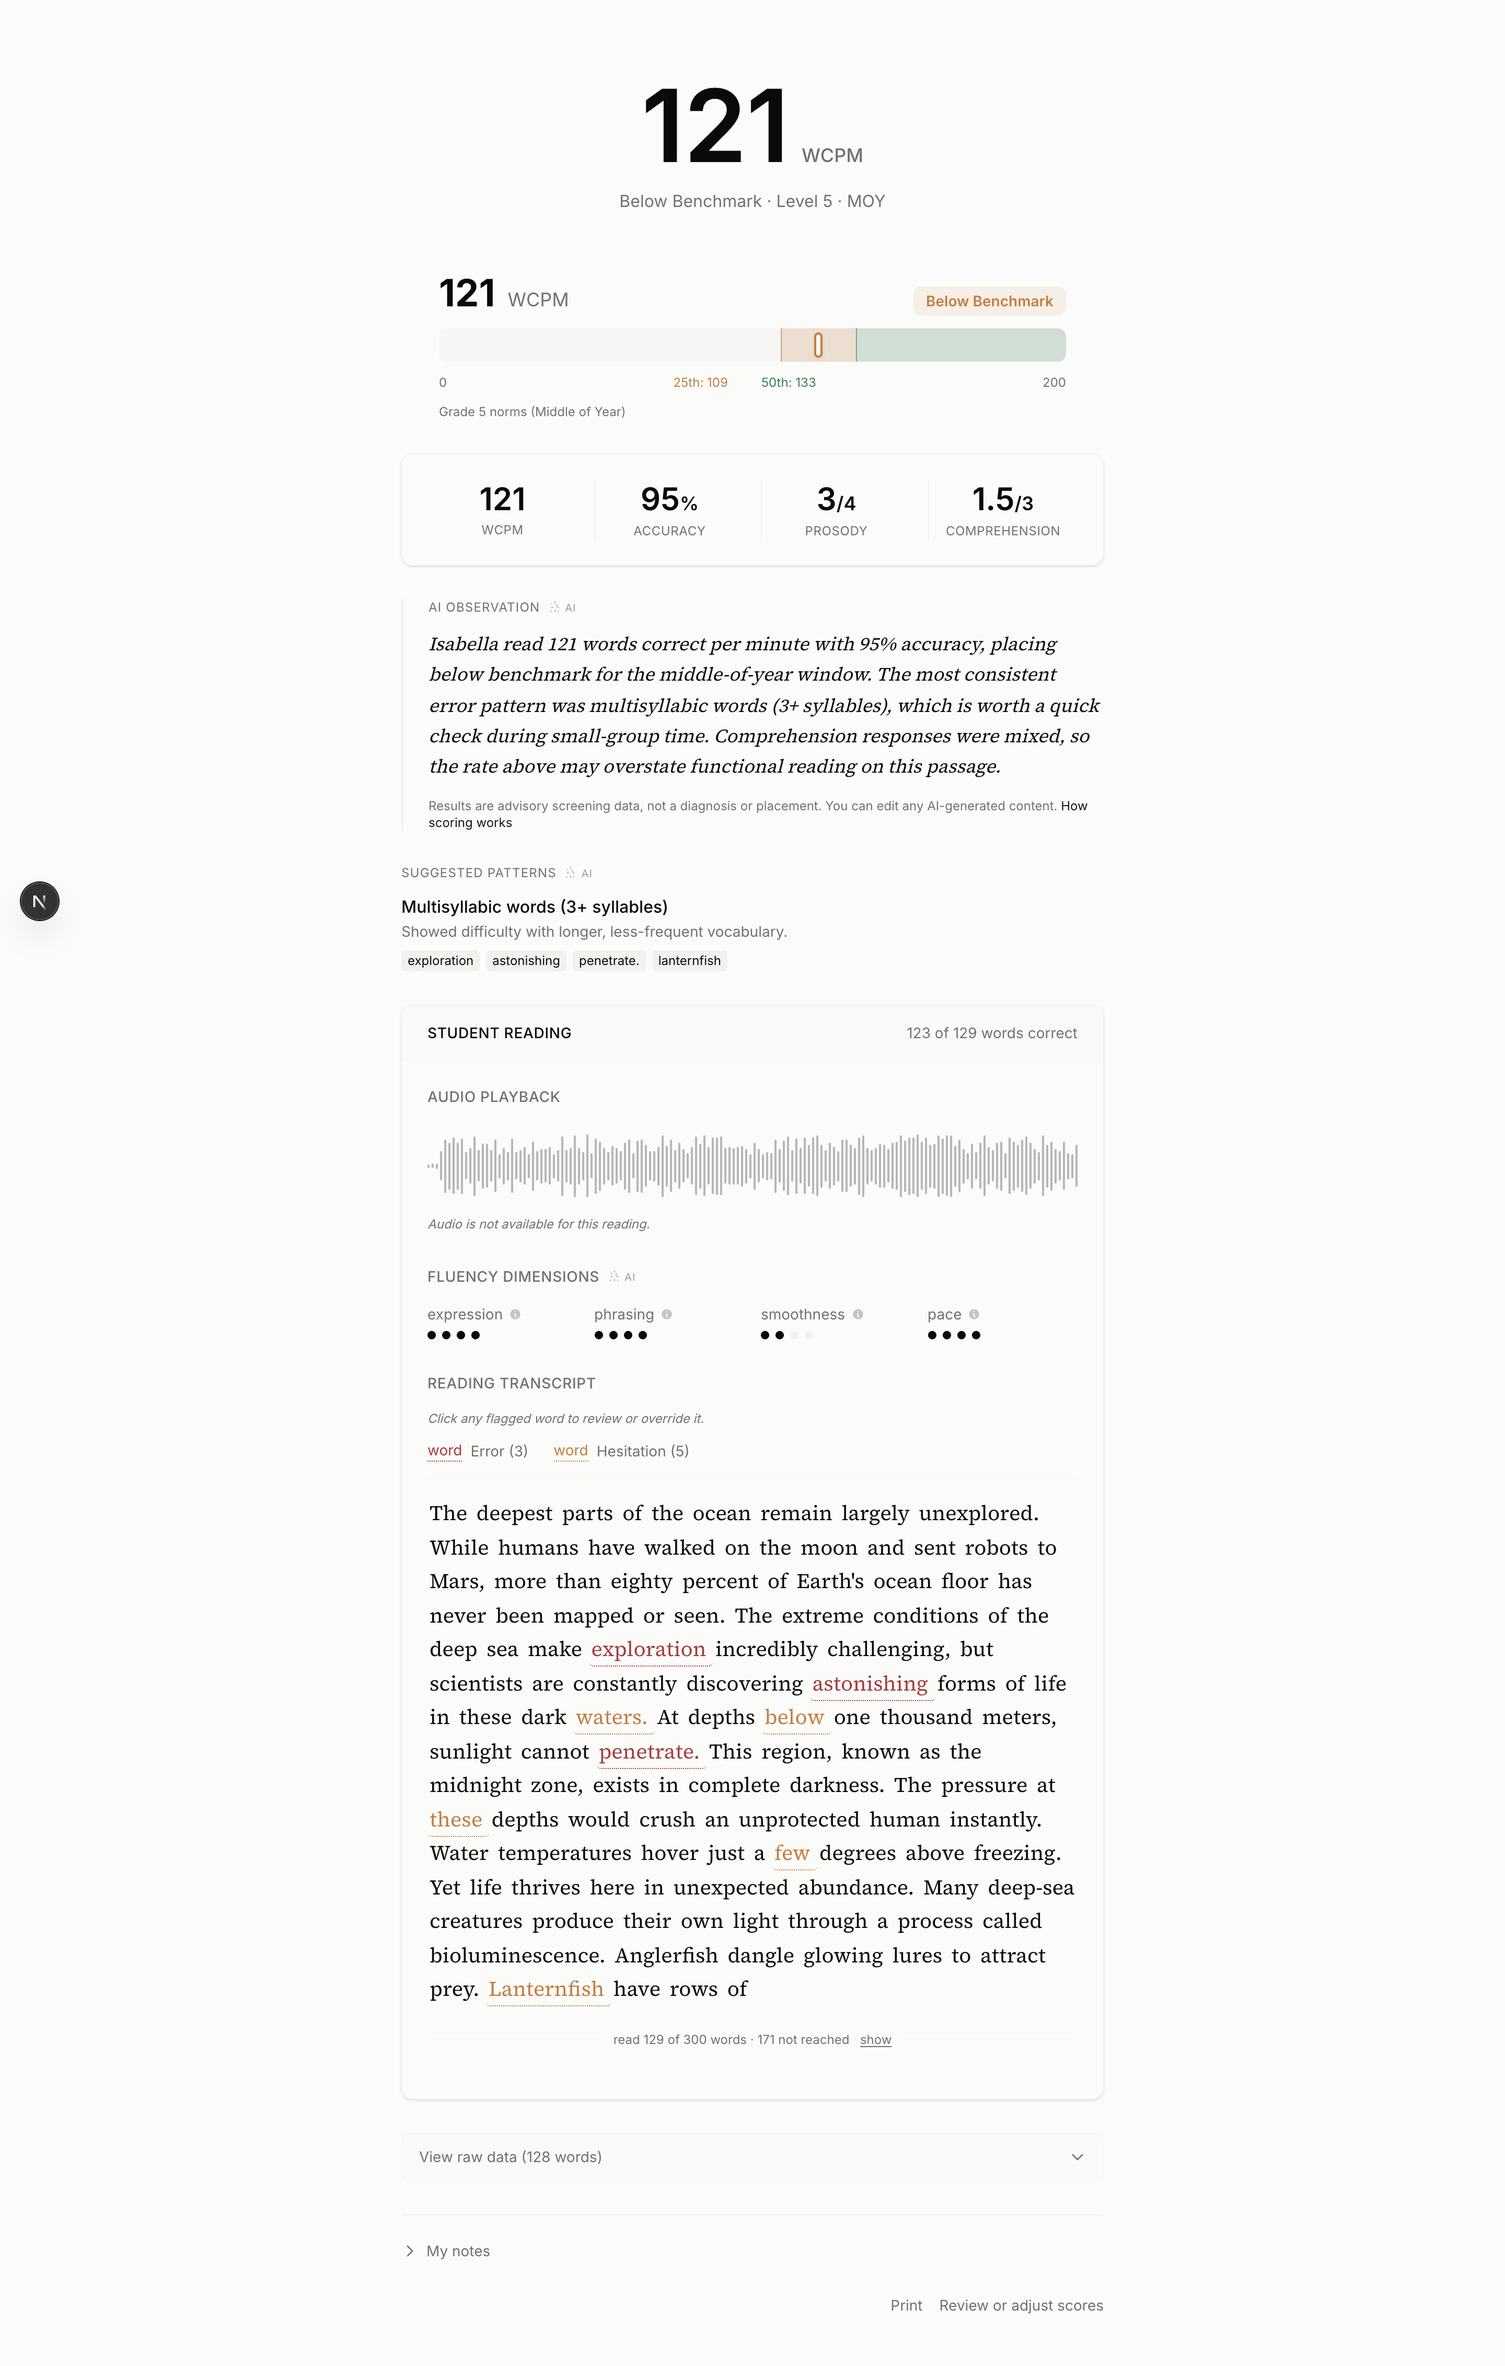
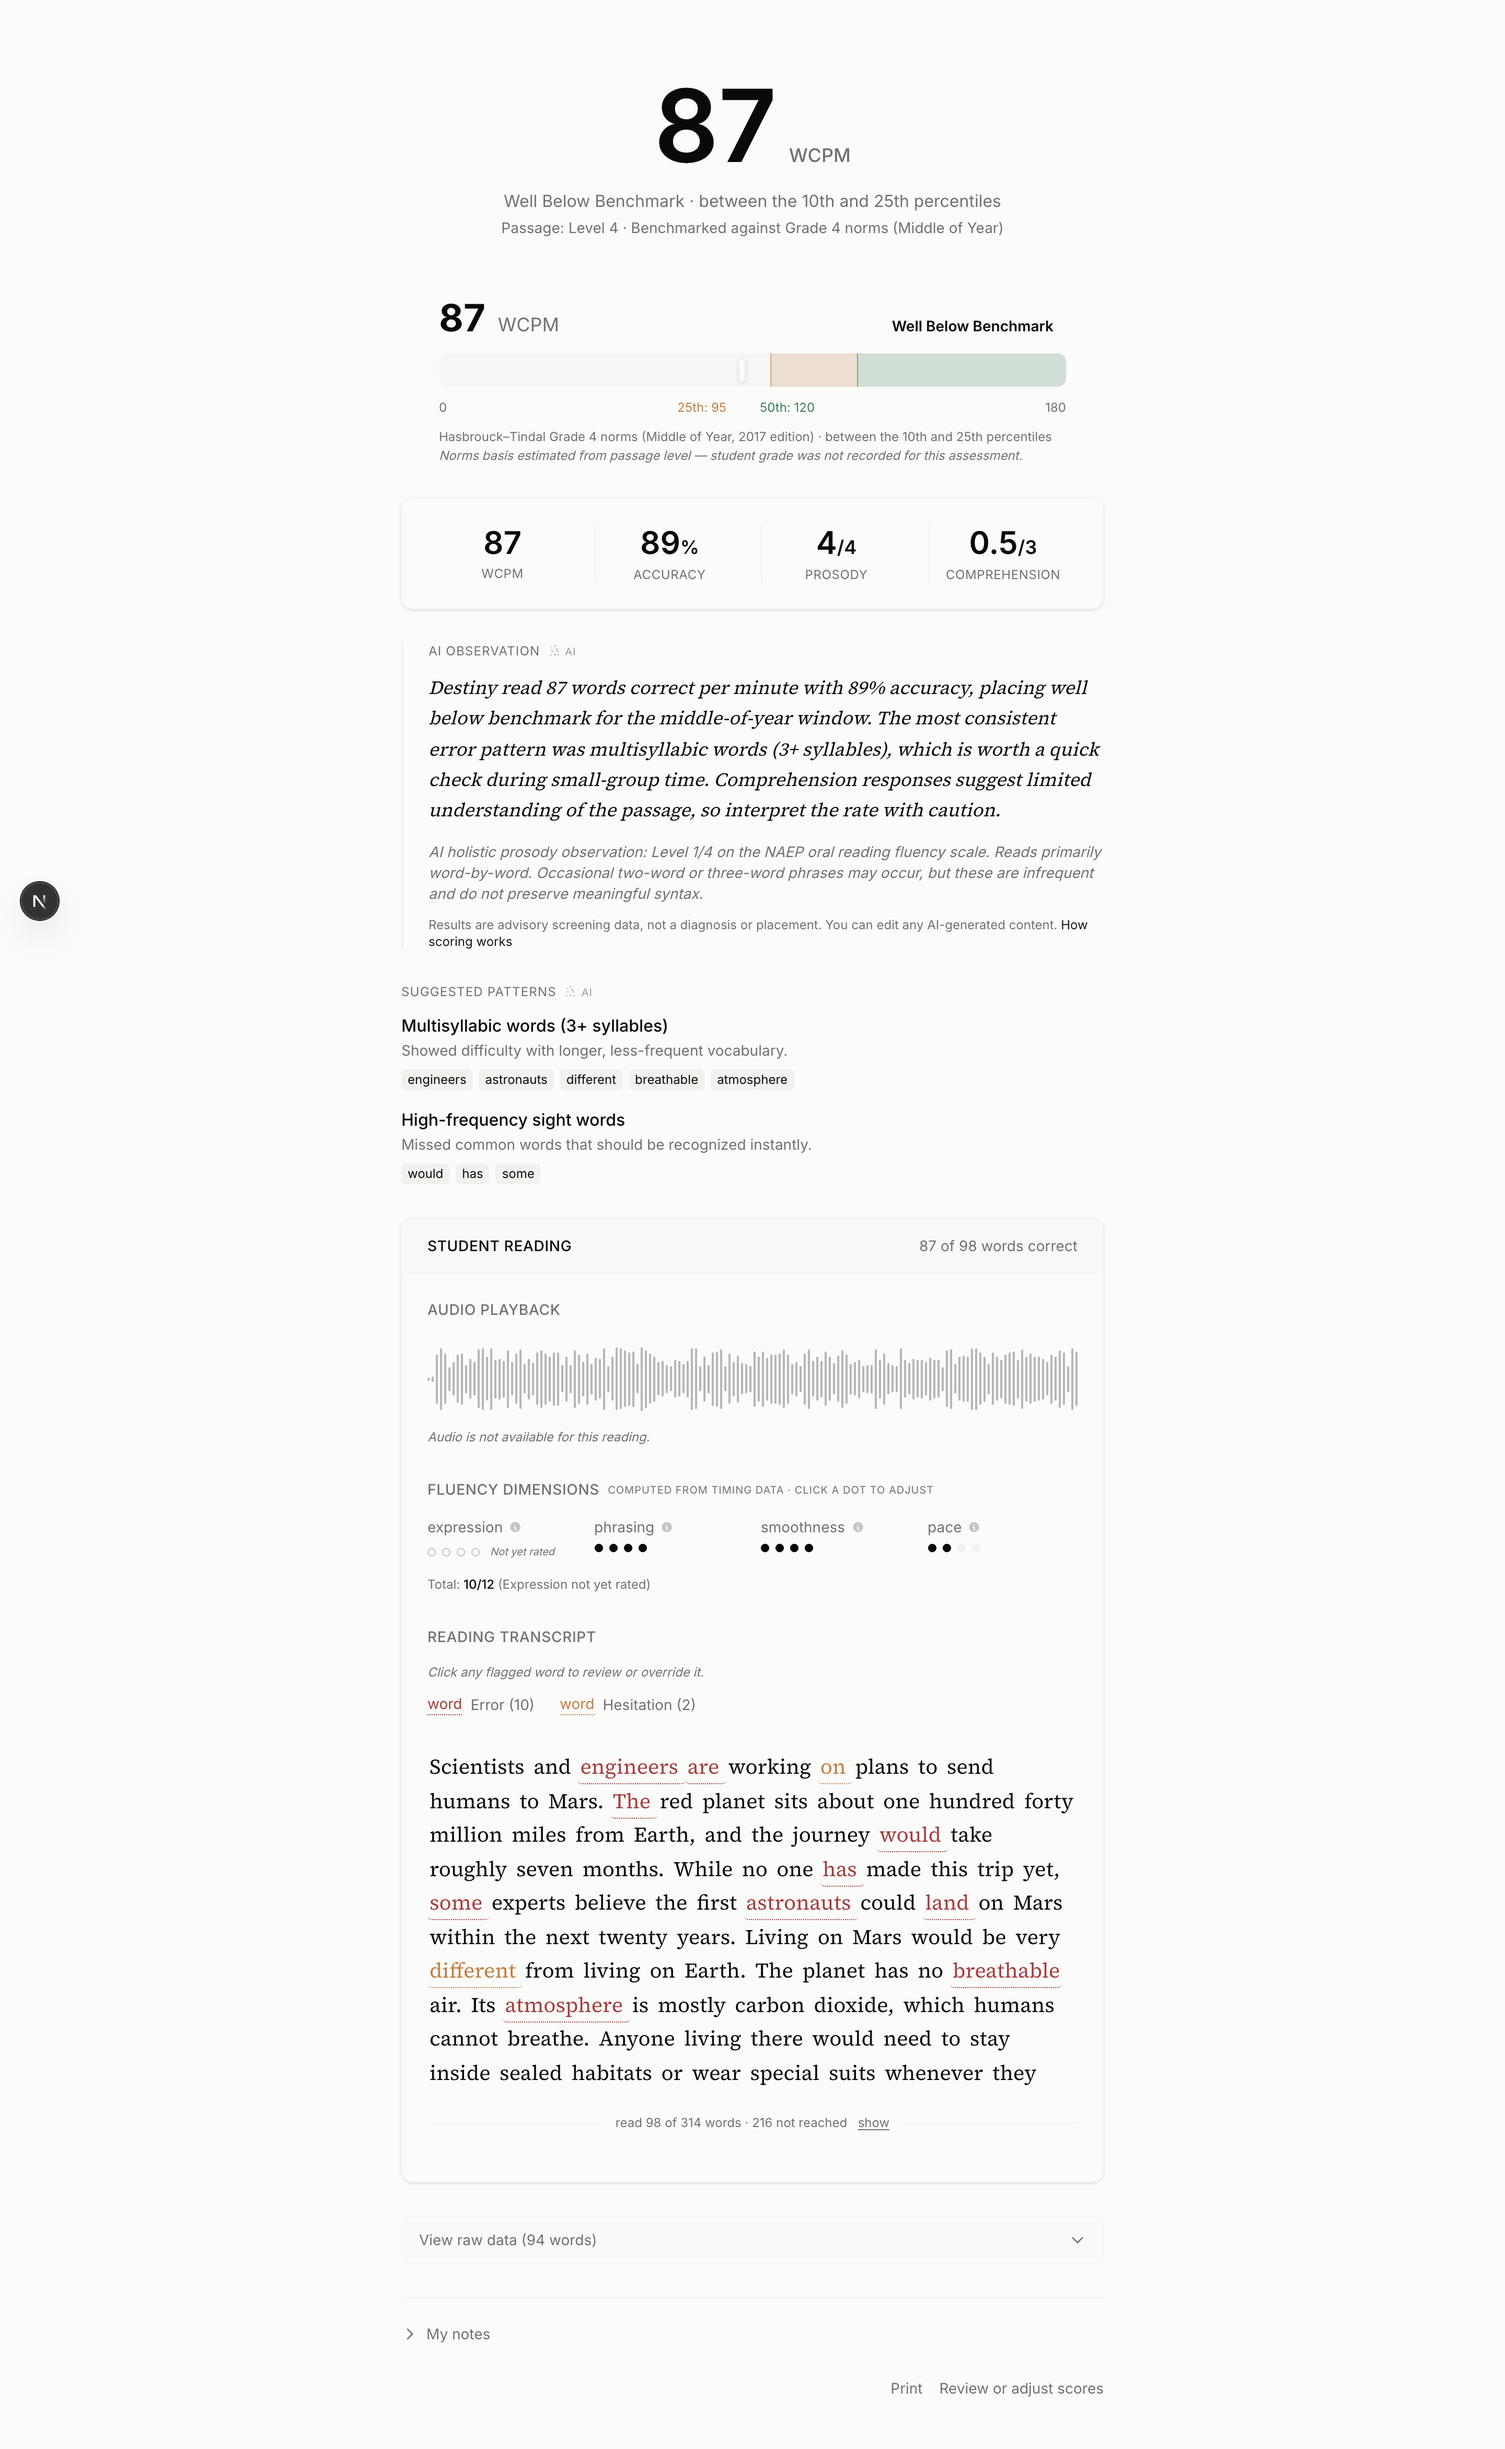
Refresh demo screenshots; fix seed week anchor and capture-script report discovery
- seed-demo.ts: anchor session dates to the dashboard's week convention
  (starts Sunday) instead of ISO Monday — run on a Sunday, every seeded
  session fell into the dashboard's previous week and the default view was
  empty; future slots now compress into earlier today.
- capture-demo-screens.ts: reports open inline on the dashboard now, so the
  report capture derives /report/<id> from the expanded row's Print link
  instead of expecting a direct link.
- public/marketing/*: recaptured after the D1-D3 report changes (stored-norms
  captions with edition + basis note, percentile range language,
  passage-vs-grade line, dimensions prosody, NAEP demoted to AI Observation).
- STATUS.md: D1-D3 rollout recorded as fully deployed (migrations + code +
  89-session backfill verified); noted the client-import hotfix lesson and
  the synthetic-timing demo prosody artifact.

diff --git a/scripts/capture-demo-screens.ts b/scripts/capture-demo-screens.ts
@@ -45,17 +45,37 @@ async function main() {
     console.log("captured median-report.png");
   }
 
-  // 3. Open a per-passage report (expand a sub-row) and capture the full report
-  //    Navigate directly to a report page for a clean capture.
+  // 3. Capture the full report. Reports render inline on the dashboard (no
+  //    direct /report/ links in the collapsed list), but every expanded
+  //    session row carries a Print link (/report/<id>/print) — expand rows
+  //    until one appears, then strip "/print" for the standalone report page.
   await page.goto(`${BASE}/dashboard`);
   await page.waitForLoadState("networkidle");
   await page.waitForTimeout(1000);
 
-  const reportLink = await page.evaluate(() => {
-    // find any element that navigates to /report/<uuid>
-    const a = document.querySelector('a[href^="/report/"]');
-    return a?.getAttribute("href") ?? null;
-  });
+  let reportLink: string | null = null;
+  const findPrintLink = () =>
+    page.evaluate(() => {
+      const a = document.querySelector('a[href^="/report/"]');
+      return a?.getAttribute("href") ?? null;
+    });
+
+  reportLink = await findPrintLink();
+  if (!reportLink) {
+    // Expand a group, then its first per-passage sub-row, to mount the inline report.
+    const group = page.locator("text=/median/i").first();
+    if (await group.count()) {
+      await group.click();
+      await page.waitForTimeout(1000);
+      const subRow = page.locator("text=/Passage 1/i").first();
+      if (await subRow.count()) {
+        await subRow.click();
+        await page.waitForTimeout(2500);
+      }
+      reportLink = await findPrintLink();
+    }
+  }
+  if (reportLink) reportLink = reportLink.replace(/\/print$/, "");
   if (reportLink) {
     await page.goto(`${BASE}${reportLink}`);
     await page.waitForLoadState("networkidle");

diff --git a/scripts/seed-demo.ts b/scripts/seed-demo.ts
@@ -546,14 +546,31 @@ async function insertChunked(table: string, rows: Record<string, unknown>[], chu
   }
 }
 
-/** Monday of the current week at the given hour (local time). */
+/**
+ * A school-day timestamp inside the dashboard's CURRENT week window.
+ *
+ * The dashboard's "this week" filter starts on SUNDAY (see
+ * app/dashboard/client.tsx: startOfWeek = today - getDay()), so anchor to that
+ * same Sunday — anchoring to ISO Monday made every seeded session fall into
+ * the dashboard's *previous* week when run on a Sunday, leaving the default
+ * view empty. Offsets are school days from Monday; any slot that would land
+ * in the future is pulled back to earlier today (preserving order), so the
+ * window always shows the sessions no matter which day the seed runs.
+ */
 function weekday(dayOffsetFromMonday: number, hour: number, minute: number): Date {
   const now = new Date();
-  const monday = new Date(now);
-  monday.setDate(now.getDate() - ((now.getDay() + 6) % 7));
-  monday.setHours(hour, minute, 0, 0);
-  monday.setDate(monday.getDate() + dayOffsetFromMonday);
-  return monday;
+  const sunday = new Date(now.getFullYear(), now.getMonth(), now.getDate());
+  sunday.setDate(sunday.getDate() - sunday.getDay()); // dashboard week start
+  const d = new Date(sunday);
+  d.setDate(sunday.getDate() + 1 + dayOffsetFromMonday); // Monday + offset
+  d.setHours(hour, minute, 0, 0);
+  if (d > now) {
+    // Not reached yet this week — compress into earlier today, keeping the
+    // original day/hour ordering (offset 0 earliest).
+    const fallback = new Date(now.getTime() - (6 - dayOffsetFromMonday) * 60 * 60 * 1000 - (60 - minute) * 60 * 1000);
+    return fallback;
+  }
+  return d;
 }
 
 async function reset() {

diff --git a/docs/STATUS.md b/docs/STATUS.md
@@ -31,8 +31,9 @@ Next.js 16 (App Router) + React 19, shipped as a PWA (Serwist service worker) ·
 - 25 ordered SQL migrations, **all applied to the live DB**. 0023–0025 (student_grade / prosody_dimensions override path / ungraded comprehension status) applied 2026-07-26; their apply-time self-verification passed by construction, and independent read-only probes after apply confirmed: `student_grade` present, anon still 42501 on `apply_session_override`, anon still 0 rows on sessions/session_overrides. 0023–0025 follow the 0020/0022 convention: catalog-driven, self-verifying at apply time (RLS on, school-scoped policies present, no wide-open write policies, definer-function lockdown incl. `pg_get_functiondef` guard checks), aborting atomically on any tenancy regression; 0025 discovers the status CHECK from `pg_constraint` rather than assuming its name. Their behavior is proven hermetically by `npm run test:migrations` (`scripts/test-migrations.sh`: real migration files into a throwaway Postgres with the production policies stood up — 16 behavioral scenarios incl. cross-school rejection with no phantom override row + 4 abort-on-regression negatives), and read-only live probes confirmed the assumed baseline (anon: 0 rows on sessions/session_overrides, 42501 on `apply_session_override`; assessments still anon-readable per 0002's open student-flow SELECT — a pre-existing exposure 0023 NOTICEs at every apply, tracked as a follow-up). 0022 applied 2026-07-24 (aligns the override-recompute cutoff to the score-time engine; its apply-time self-verification block passed, which by construction confirms the recompute helper stayed internal-only, `apply_event_override` still enforces the per-school check, and RLS is on for all three session tables — see DECISIONS 2026-07-24). 0001–0018 verified 2026-07-10; 0019 + 0020 + 0021 applied 2026-07-14 (0020 verified live via anon probe = 0 rows; 0021 verified via PostgREST `required` set; 0019 applied in the same push, not independently re-verified — it only affects the override-recompute path). 0017 fixed the override recalc (self-corrections count as correct; latest-override-wins) and revoked client-role EXECUTE on the internal helper — verified live: anon now gets 42501 where it previously executed; the backfill repaired session `43f1f6c4` exactly as predicted (WCPM 108→110, accuracy 96→98%). 0018 added the missing school check to `apply_session_override`. `npm run lint` (0 errors) and `npm run build` pass as of 2026-07-13.
 
 **In progress:**
-- **Migrations 0023–0025 are applied to live (2026-07-26, verified via probes); the matching app code sits in the working tree, not yet committed/deployed.** Remaining sequence: (1) commit + deploy the 2026-07-26 working tree, (2) run `npx tsx scripts/backfill-norms.ts` (dry-run, review, then `--apply`) so existing sessions — the validation cohort above all — carry `scores_json.norms` + `prosody_dimensions` and no stored summary still cites the old grade-6-spring benchmark. Until the backfill runs, old sessions render norms from the render-time fallback (correct + labeled) but keep their stale stored summaries; prosody dimensions show "not available". Then re-run `scripts/capture-demo-screens.ts` (report/print surfaces changed visibly).
-- Existing sessions' stored `error_patterns` still need a re-run of `scripts/backfill-patterns.ts` (relax its skip filter) to drop the pre-0019 inflated tail — can be folded into the same backfill pass.
+- **The 2026-07-26 D1–D3 rollout is fully deployed:** migrations 0023–0025 applied + probe-verified; code committed and pushed to main (Vercel); `backfill-norms.ts --apply` run against all 89 completed sessions (0 failures, 39 summaries regenerated, 0 sessions still citing the old grade-6-spring benchmark — verified by live query); demo tenant re-seeded and marketing screenshots recaptured. **Post-deploy hotfix worth remembering:** the first push broke the dashboard at runtime — client components imported `lib/scoring/prosody.ts`, which constructs the Anthropic client at module scope via `ai.ts` and throws in the browser. Caught minutes later by the screenshot recapture; fixed by splitting the pure dimension helpers into client-safe `lib/scoring/prosody-dimensions.ts` (`ai.ts` must never be reachable from a client import graph — the build does NOT catch this, only runtime does).
+- Demo-data artifact to know: the seeded sessions have synthetic word timing, so their pause-based dimensions (smoothness/phrasing) sit at 4 and a weak demo reader can show a high dimensions-median next to a low AI NAEP observation. Real recordings spread properly (see the calibration in DECISIONS 2026-07-26); this is a seed-realism gap, not an engine bug — fold richer hesitation simulation into the seed if demo prosody needs to look representative.
+- Existing sessions' stored `error_patterns` still need a re-run of `scripts/backfill-patterns.ts` (relax its skip filter) to drop the pre-0019 inflated tail.
 
 **Known gaps / tech debt:**
 - **WER validation still has zero hand-transcribed samples.** Tooling is now complete on both ends: `scripts/pull-wer-samples.ts` pulls real sessions from the live DB — downloads each recording into `validation-data/`, resolves the passage text (library or legacy), and writes `samples.json` pre-filled with passage/duration/app-WCPM, leaving `hand_transcription` + `hand_wcpm` blank (merges on re-run, preserving prior hand entries) — and `scripts/validate-wer.ts` consumes it. The only remaining human step is listening + hand-transcribing/counting a handful of samples (prioritizing AAVE / Spanglish / newcomer accents). Roadmap marks this as blocking any demo.
